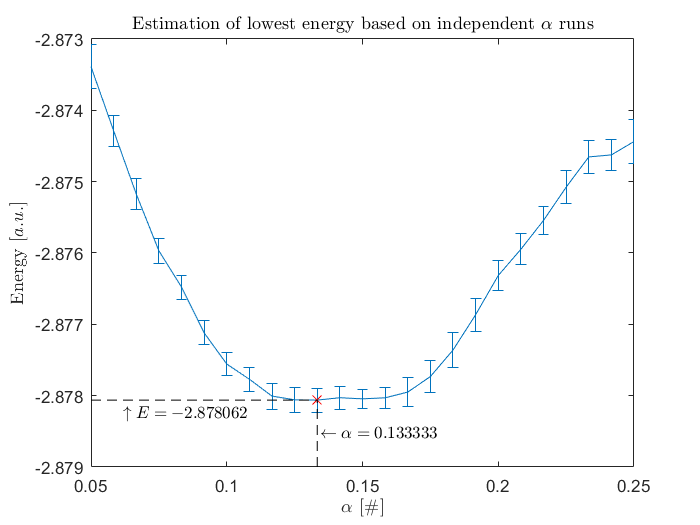
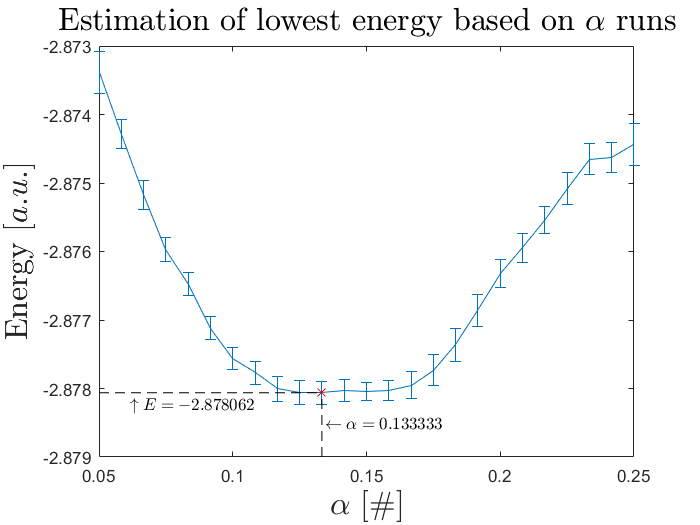
updated plots in task 3 and 4

diff --git a/code/Task4/plot_alpha_energy.m b/code/Task4/plot_alpha_energy.m
@@ -7,29 +7,38 @@ size_alpha=size(alpha_energy);
 % make new loop that starts at k=1:4
 % and start in alpha_energy ((k-1)*200)
 
-tot_min =0;
-tot_min_alpha=0;
-idx=0;
-tot_min_idx=0;
+tot_min =zeros(1,4);
+tot_min_alpha=zeros(1,4);
+idx=zeros(1,4);
+tot_min_idx=zeros(1,4);
 % find the run and index of the alpha that gives the lowest energy
-for i=1:(size_alpha(2)/2)
-    j=2*i-1;
-    [min_val,min_idx]=min(alpha_energy(:,j+1));
-    if (tot_min > min_val)
-        tot_min = min_val;
-        tot_min_alpha=alpha_energy(min_idx,j);
-        idx=j;
-        tot_min_idx=min_idx;
+for k=1:4
+    for i=1:(size_alpha(2)/2)
+        j=2*i-1;
+        startIdx=(k-1)*200+1;
+        endIdx = k*200;
+        [min_val,min_idx]=min(alpha_energy(startIdx:endIdx,j+1));
+        if (tot_min(k) > min_val)
+            tot_min(k) = min_val;
+            tot_min_alpha(k)=alpha_energy(min_idx+startIdx,j);
+            idx(k)=j;
+            tot_min_idx(k)=min_idx;
+        end
     end
 end
 
-plot(alpha_energy(:,idx))
 hold on
-plot(tot_min_idx,alpha_energy(tot_min_idx,idx),'*')
 
-xlabel('Run $p$ [$\#$]','interpreter','latex')
-ylabel('$\alpha$ [$\#$]','interpreter','latex')
-title('Estimation of $\alpha$ which yeild lowest energy','interpreter','latex')
+for k = 1:4
+    startIdx=(k-1)*200+1;
+    endIdx = k*200;
+    plot(alpha_energy(startIdx:endIdx,idx(k)))
+    plot(tot_min_idx(k),alpha_energy(tot_min_idx(k),idx(k)),'*')
+end
+
+xlabel('Run $p$ [$\#$]','interpreter','latex','fontsize',19)
+ylabel('$\alpha$ [$\#$]','interpreter','latex','fontsize',19)
+title('Estimation of $\alpha$ which yeild lowest energy','interpreter','latex','fontsize',19)
 
 figure
 plot(alpha_energy(:,idx+1))

diff --git a/code/Task3/plot_alpha_energy.m b/code/Task3/plot_alpha_energy.m
@@ -31,7 +31,7 @@ text((alpha_energy(min_alpha_idx,1)+alpha_energy(1,1))/2-0.03,mean_alpha(min_alp
 
 xlim([alpha_energy(1,1),alpha_energy(end,1)])
 
-ylabel('Energy [$a.u.$]','interpreter','latex')
-xlabel('$\alpha$ [$\#$]','interpreter','latex')
-title('Estimation of lowest energy based on independent $\alpha$ runs','interpreter','latex')
+ylabel('Energy [$a.u.$]','interpreter','latex','fontsize',19)
+xlabel('$\alpha$ [$\#$]','interpreter','latex','fontsize',19)
+title('Estimation of lowest energy based on $\alpha$ runs','interpreter','latex','fontsize',19)
 

diff --git a/code/Task3/plot_alpha_means.m b/code/Task3/plot_alpha_means.m
@@ -8,9 +8,9 @@ errorbar(alpha_mean_var(:,1),alpha_mean_var(:,2),alpha_mean_var(:,3)*sqrt(11/100
 
 xlim([alpha_mean_var(1,1),alpha_mean_var(end,1)])
 
-ylabel('Energy [$a.u.$]','interpreter','latex')
-xlabel('$\alpha$ [$\#$]','interpreter','latex')
-title('Estimation of lowest energy based on one $\alpha$ run','interpreter','latex')
+ylabel('Energy [$a.u.$]','interpreter','latex','fontsize',19)
+xlabel('$\alpha$ [$\#$]','interpreter','latex','fontsize',19)
+title('Estimation of lowest energy based on one $\alpha$ run','interpreter','latex','fontsize',19)
 
 
 

diff --git a/code/Task4/main.c b/code/Task4/main.c
@@ -66,6 +66,7 @@ int main()
         double min_alpha= 100;
         double min_energy = 100;
         double beta = beta_min+(beta_max-beta_min)*(double)(b)/(double)(nbr_of_beta_runs);
+        printf("beta: %e \n",beta );
         for (int i = 0; i < nbr_of_runs; i++)
         {
             double current_alpha = alpha_0;
